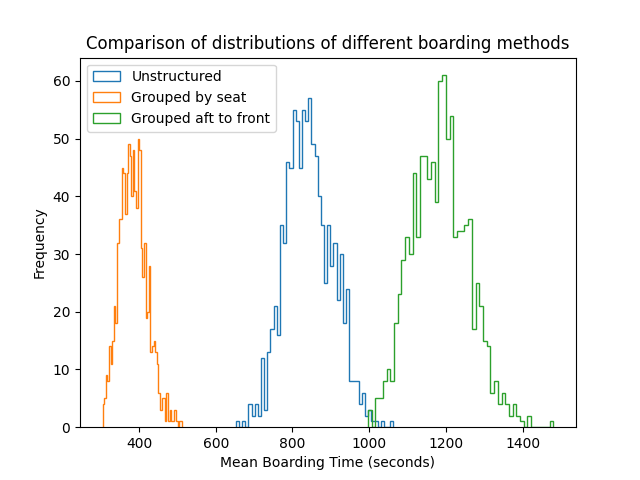
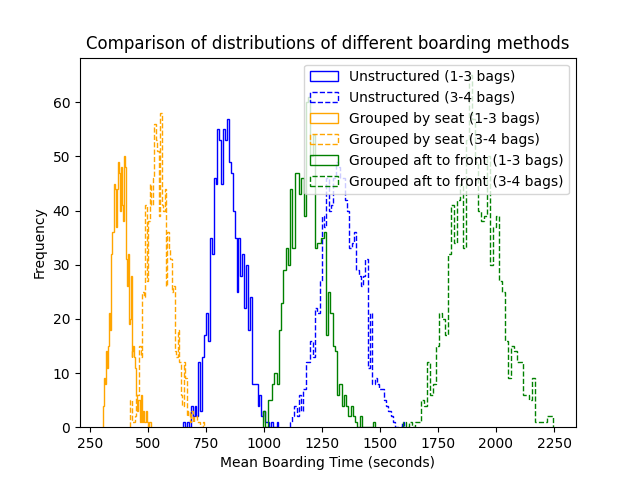
more stuff for plotter

diff --git a/plotter.py b/plotter.py
@@ -8,19 +8,40 @@ with open('./random_boarding/1-3_bags_5_not_following/data_1000_2022-03-24 20:56
     for line in f.readlines()[1:]:
         data_random.append(float(line))
 
+data_random_3 = []
+with open('./random_boarding/3-4_bags_5_not_following/data_1000_2022-03-24 21:06:37.786369.csv', 'r') as f:
+    for line in f.readlines()[1:]:
+        data_random_3.append(float(line))
+
 data_back_to_front = []
 with open('./grouped_random_back_first/1-3_bags_5_not_following/data_1000_2022-03-24 22:17:18.462396.csv', 'r') as f:
     for line in f.readlines()[1:]:
         data_back_to_front.append(float(line))
+
+data_back_to_front_3 = []
+with open('./grouped_random_back_first/3-4_bags_5_not_following/data_1000_2022-03-24 22:29:54.505524.csv', 'r') as f:
+    for line in f.readlines()[1:]:
+        data_back_to_front_3.append(float(line))
 
 data_outer_first = []
 with open('./outer_first_boarding/1-3_bags_5_not_following/data_1000_2022-03-24 21:23:52.120121.csv', 'r') as f:
     for line in f.readlines()[1:]:
         data_outer_first.append(float(line))
 
-plt.hist(data_random, bins=50, histtype=u'step', label="Unstructured")
-plt.hist(data_outer_first, bins=50, histtype=u'step', label="Grouped by seat")
-plt.hist(data_back_to_front, bins=50, histtype=u'step', label="Grouped aft to front")
+data_outer_first_3 = []
+with open('./outer_first_boarding/3-4_bags_5_not_following/data_1000_2022-03-24 21:28:16.467792.csv', 'r') as f:
+    for line in f.readlines()[1:]:
+        data_outer_first_3.append(float(line))
+
+plt.hist(data_random, bins=50, histtype=u'step', label="Unstructured (1-3 bags)", color='blue')
+plt.hist(data_random_3, bins=50, histtype=u'step', linestyle='dashed', label="Unstructured (3-4 bags)", color='blue')
+
+plt.hist(data_outer_first, bins=50, histtype=u'step', label="Grouped by seat (1-3 bags)", color='orange')
+plt.hist(data_outer_first_3, bins=50, histtype=u'step', linestyle='dashed', label="Grouped by seat (3-4 bags)", color='orange')
+
+plt.hist(data_back_to_front, bins=50, histtype=u'step', label="Grouped aft to front (1-3 bags)", color='green')
+plt.hist(data_back_to_front_3, bins=50, histtype=u'step', linestyle='dashed', label="Grouped aft to front (3-4 bags)", color='green')
+
 plt.title("Comparison of distributions of different boarding methods")
 plt.ylabel('Frequency')
 plt.xlabel('Mean Boarding Time (seconds)')

diff --git a/plane.py b/plane.py
@@ -16,10 +16,10 @@ SIM_COUNT = 1000 # reruns the plane simulation n times
 MIN_INDIVIDUAL_BAGGING_TIME = 5
 MAX_INDIVIDUAL_BAGGING_TIME = 20
 
-MIN_INDIVIDUAL_BAGS = 3
-MAX_INDIVIDUAL_BAGS = 4
+MIN_INDIVIDUAL_BAGS = 1
+MAX_INDIVIDUAL_BAGS = 3
 
-PERCENTAGE_OF_PASSENGERS_NOT_FOLLOWING_INSTRUCTIONS = 20
+PERCENTAGE_OF_PASSENGERS_NOT_FOLLOWING_INSTRUCTIONS = 5
 
 passenger_count = int(ROW_COUNT * SEATS_PER_ROW * PLANE_FULLNESS_PERCENT * 0.01 * 2)
 
@@ -63,28 +63,27 @@ def prepare():
     # shuffle(targets_pool)
 
     # ------- outer seats to inner --------
-    # for s in [0, 5,  1, 4,  2, 3]:
-    #     for r in range(ROW_COUNT):
-    #         targets_pool.append([r+passenger_count, s])
+    for s in [0, 5,  1, 4,  2, 3]:
+        for r in range(ROW_COUNT):
+            targets_pool.append([r+passenger_count, s])
 
     # ------ grouped in sections, random within section ------
-    groups = [
-        (22, 33),
-        (11, 22),
-        (0, 11)
-    ]
+    # groups = [
+    #     (22, 33),
+    #     (11, 22),
+    #     (0, 11),
+    # ]
 
-    # by groups
-    for gmin, gmax in groups:
-        group = []
+    # for gmin, gmax in groups:
+    #     group = []
 
-        for r in range(gmin, gmax):
-            for s in list(range(SEATS_PER_ROW*2)):
-                group.append([r+passenger_count, s])
+    #     for r in range(gmin, gmax):
+    #         for s in list(range(SEATS_PER_ROW*2)):
+    #             group.append([r+passenger_count, s])
 
-        # get a random seat in the groups
-        shuffle(group)
-        targets_pool.extend(group)
+    #     # get a random seat in the groups
+    #     shuffle(group)
+    #     targets_pool.extend(group)
 
     # passengers not following instructions
     swaps = int(len(targets_pool) * (PERCENTAGE_OF_PASSENGERS_NOT_FOLLOWING_INSTRUCTIONS / 100))
@@ -132,7 +131,7 @@ def step():
             
             passenger_at_index.bagging_remaining -= 1
 
-            if passenger_at_index.bagging_remaining == 0:
+            if passenger_at_index.bagging_remaining <= 0:
                 # put into seat
                 # print(f'{passenger_at_index} has gotten into their seat in {passenger_at_index.time_taken} cycles')
                 seats[passenger_at_index.target[0]][passenger_at_index.target[1]] = passenger_at_index
